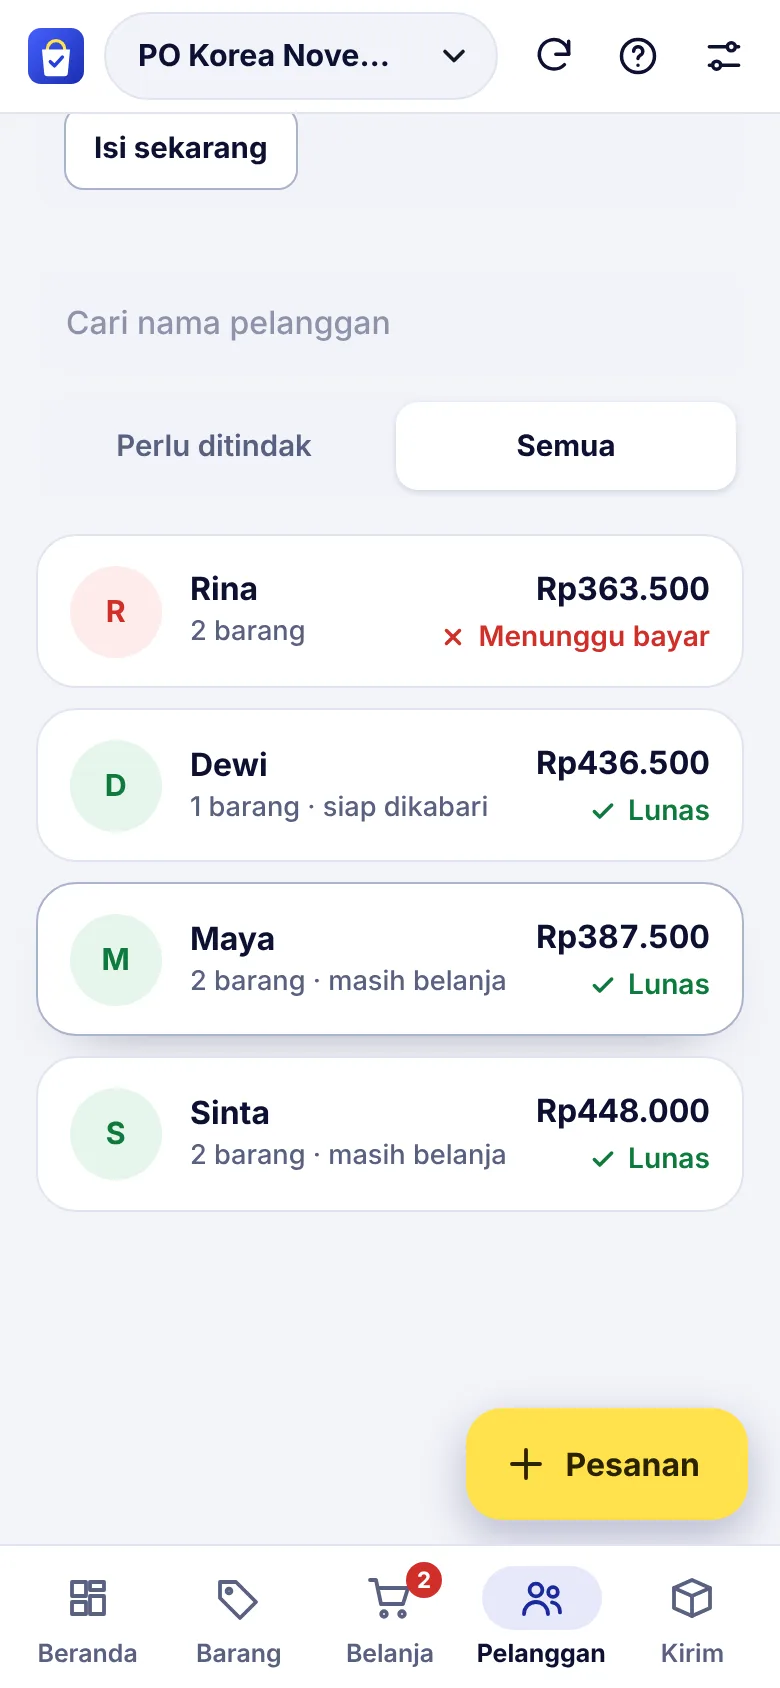
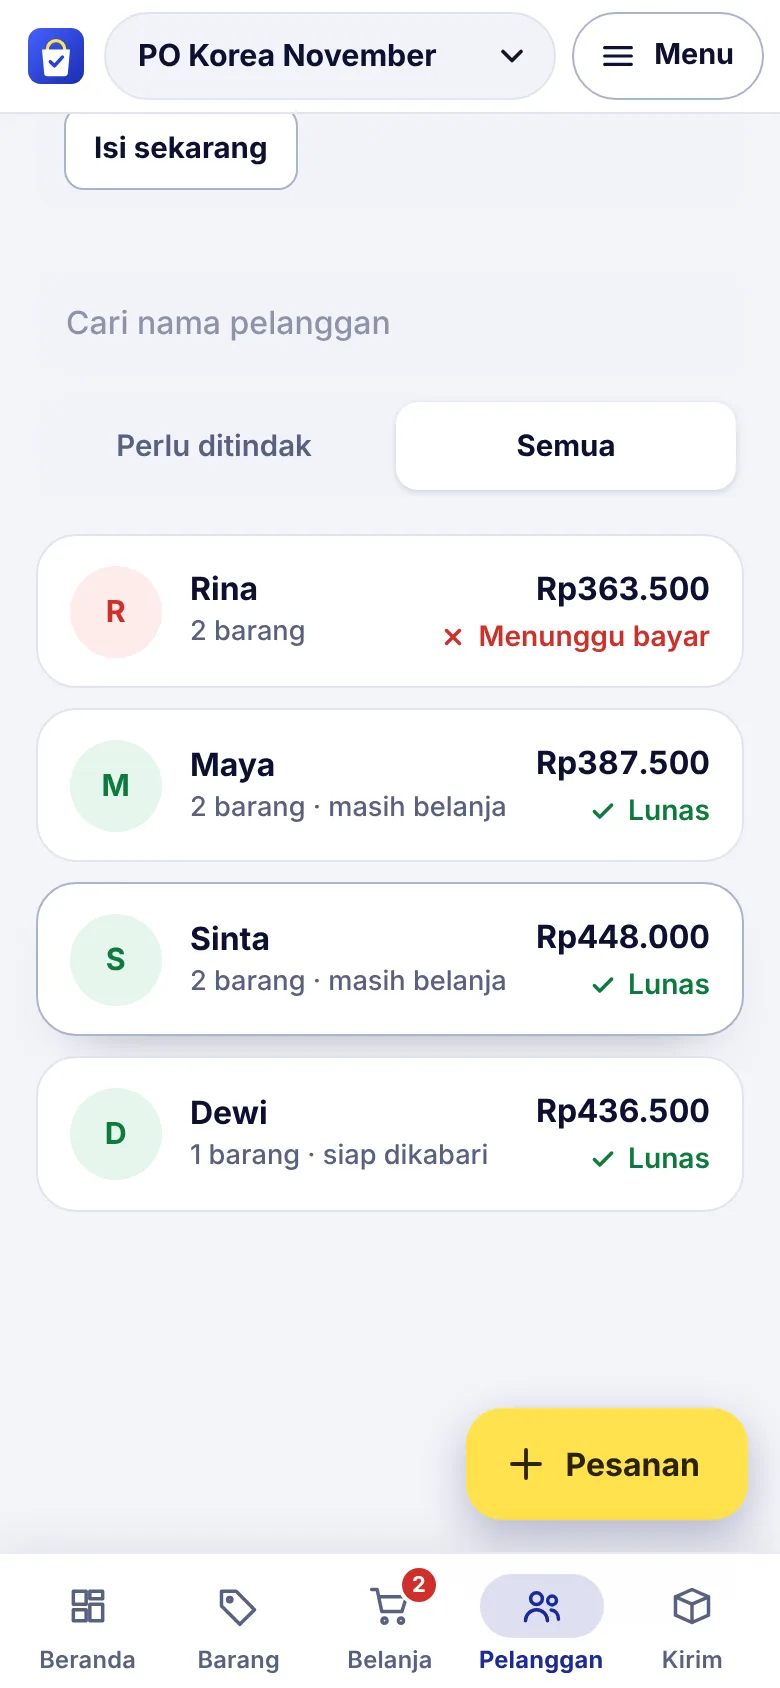
Header satu tombol Menu; batas PO opsional dan bisa diperpanjang; perkiraan barang sampai; Siap dikabari dibatasi 3
Claude-Session: https://claude.ai/code/session_01Umsz8aQAUh9Fd5wyBKCHqJ

diff --git a/app.html b/app.html
@@ -738,6 +738,28 @@ nav.tabs button:active svg{transform:scale(.92)}
 
 details.doneblk .srow,details.doneblk .area{margin-left:16px;margin-right:16px}
 details.doneblk .area{padding-left:0;padding-right:0}
+
+/* header: satu tombol Menu */
+header.top .menu-btn{display:inline-flex;align-items:center;gap:8px;min-height:44px;padding:0 14px 0 12px;border-radius:99px;border:1.5px solid var(--rule-strong);background:var(--surface);color:var(--ink);font-weight:700;font-size:.9rem;cursor:pointer;margin-left:auto;flex:0 0 auto}
+header.top .menu-btn svg{width:20px;height:20px}
+header.top .menu-btn:active{background:var(--sunken)}
+.mrow{display:flex;align-items:center;gap:14px;width:100%;text-align:left;background:transparent;border:0;border-bottom:1px solid var(--rule);padding:14px 4px;min-height:64px;color:var(--ink);cursor:pointer}
+.mrow:last-of-type{border-bottom:0}
+.mrow .mi{width:42px;height:42px;border-radius:14px;background:var(--sunken);display:grid;place-items:center;flex:0 0 auto}
+.mrow .mi svg{width:22px;height:22px}
+.mrow .mt{display:flex;flex-direction:column;gap:2px}
+.mrow .mt b{font-size:1rem}.mrow .mt small{color:var(--muted);font-size:.84rem}
+.mrow.danger .mi{background:color-mix(in srgb,var(--red) 12%,transparent);color:var(--red)}
+.mrow.danger .mt b{color:var(--red)}
+.sched{margin-top:16px;padding-top:14px;border-top:1px solid var(--rule)}
+.sched .label{font-weight:700;margin-bottom:8px}
+.sched .chips{display:flex;flex-wrap:wrap;gap:8px;margin-top:10px}
+.sched .chip{min-height:40px;padding:0 14px;border-radius:99px;border:1.5px solid var(--rule-strong);background:var(--surface);color:var(--ink);font-weight:600;font-size:.86rem;cursor:pointer}
+.rbtns{display:flex;flex-direction:column;gap:6px;flex:0 0 auto}
+.rbtns .btn{min-height:38px}
+.cn2{font-size:.8rem;font-weight:700;background:var(--sunken);color:var(--muted);border-radius:99px;padding:2px 9px;margin-left:6px;vertical-align:middle}
+.morerow{color:var(--accent);font-weight:700;min-height:48px}
+@media(max-width:899px){header.top .brand .bn{display:none}}
 </style>
 </head>
 <body>
@@ -962,6 +984,7 @@ function waBill(c,t){
   if(c.paid>0)s+='\nSudah dibayar: '+rp(c.paid)+'\nSisa: '+rp(Math.max(0,c.sisa));
   if(c.sisa>0){s+='\n';if(APP.shop&&APP.shop.pay)s+='\nSilakan transfer ke:\n'+APP.shop.pay;s+='\n\nSetelah transfer, kirim bukti bayarnya di chat ini ya. Barang kami belikan setelah pembayaran kami terima.'}
   else s+='\nTagihan sudah lunas.';
+  if(t.eta)s+='\n\nPerkiraan barang sampai: '+new Date(t.eta+'T00:00:00').toLocaleDateString('id-ID',{day:'numeric',month:'long'});
   return s+'\nTerima kasih!';
 }
 /* pesanan baru dianggap "sudah dibayar" berurutan sesuai uang yang masuk; baru yang lunas muncul di daftar belanja */
@@ -1151,7 +1174,7 @@ function iso(t){return new Date(t).toISOString()}
 function rowsOf(){
   var sid=APP.shop.id,role=APP.role,R={};
   TBL.forEach(function(T){if(T.w.indexOf(role)>=0&&!(T.n==='deliveries'&&APP.noDeliv))R[T.n]={}});
-  if(R.trips)S.trips.forEach(function(t){R.trips[t.id]={id:t.id,shop_id:sid,name:t.nama,currency:t.mata||'KRW',deadline:t.deadline||null}});
+  if(R.trips)S.trips.forEach(function(t){R.trips[t.id]={id:t.id,shop_id:sid,name:t.nama,currency:t.mata||'KRW',deadline:t.deadline||null};if(!APP.noEta)R.trips[t.id].eta=t.eta||null});
   if(R.trip_pricing)S.trips.forEach(function(t){R.trip_pricing[t.id]={trip_id:t.id,shop_id:sid,rate:+t.kurs||0,fee_pct:+t.feePct||0,fee_flat:Math.round(+t.feeFlat||0),round_to:Math.max(1,Math.round(+t.round||1)),extra_cost:Math.round(+t.biayaLain||0)}});
   if(R.customers)S.customers.forEach(function(c){R.customers[c.id]={id:c.id,shop_id:sid,name:c.nama,phone:c.hp||''}});
   if(R.items)S.items.forEach(function(i){R.items[i.id]={id:i.id,shop_id:sid,trip_id:i.trip,code:i.kode,name:i.nama,store:i.toko||'',price:+i.harga||0,
@@ -1301,7 +1324,7 @@ async function loadAll(o){
   if(!only||only.indexOf('items')>=0)APP.noFix=false;
   var guess=prev.cur||want||null;
   var needTrips=need('trips');
-  var tripsP=needTrips?fetchAll('trips','id,name,currency,deadline,created_at','id',byShop):Promise.resolve(null);
+  var tripsP=needTrips?fetchTrips(byShop):Promise.resolve(null);
   var priceP=(needTrips&&own)?fetchAll('trip_pricing','*','trip_id',byShop):Promise.resolve([]);
   var custP=(!pembeli&&need('customers'))?fetchAll('customers','id,name,phone','id',byShop):Promise.resolve(null);
   var logP=(pembeli||only||(o.light&&APP.hashLoaded))?Promise.resolve(null):fetchAll('import_log','hash','hash',byShop);
@@ -1313,7 +1336,7 @@ async function loadAll(o){
   if(D[0]){
     var pr={};D[1].forEach(function(p){pr[p.trip_id]=p});
     D[0].sort(function(a,b){return a.created_at<b.created_at?1:-1});
-    ns.trips=D[0].map(function(t){var p=pr[t.id]||{};return {id:t.id,nama:t.name,mata:t.currency,deadline:t.deadline||'',
+    ns.trips=D[0].map(function(t){var p=pr[t.id]||{};return {id:t.id,nama:t.name,mata:t.currency,deadline:t.deadline||'',eta:t.eta||'',
       kurs:p.rate!=null?+p.rate:0,feePct:+p.fee_pct||0,feeFlat:+p.fee_flat||0,round:+p.round_to||1,biayaLain:+p.extra_cost||0}});
   }else ns.trips=prev.trips;
   var has=function(id){return ns.trips.some(function(t){return t.id===id})};
@@ -1345,6 +1368,11 @@ async function loadAll(o){
 
 /* ---------- cadangan: semua data toko jadi satu berkas Excel ---------- */
 function loadScript(src){return new Promise(function(ok,no){var el=document.createElement('script');el.src=src;el.onload=ok;el.onerror=function(){no(new Error('lib'))};document.head.appendChild(el)})}
+async function fetchTrips(byShop){
+  if(APP.noEta)return fetchAll('trips','id,name,currency,deadline,created_at','id',byShop);
+  try{return await fetchAll('trips','id,name,currency,deadline,eta,created_at','id',byShop)}
+  catch(e){APP.noEta=true;return fetchAll('trips','id,name,currency,deadline,created_at','id',byShop)}
+}
 async function tryCols(table,base,extra,ord,mod){
   if(!extra)return fetchAll(table,base,ord,mod);
   try{return await fetchAll(table,base+','+extra,ord,mod)}catch(e){return fetchAll(table,base,ord,mod)}
@@ -1695,6 +1723,7 @@ var ICO={
   kirim:'<path d="M3 7l9-4 9 4v10l-9 4-9-4z"/><path d="M3 7l9 4 9-4M12 11v10"/>',
   refresh:'<path d="M20 11a8 8 0 1 0-2.3 5.7"/><path d="M20 4v7h-7"/>',
   logout:'<path d="M10 4H5v16h5"/><path d="M16 8l4 4-4 4M20 12H9"/>',
+  menu:'<path d="M4 7h16M4 12h16M4 17h16"/>',
   gear:'<path d="M4 7h9M19 7h1M4 17h1M11 17h9"/><circle cx="16" cy="7" r="2.2"/><circle cx="8" cy="17" r="2.2"/>',
   help:'<circle cx="12" cy="12" r="9"/><path d="M9.6 9.4a2.5 2.5 0 1 1 3.5 2.3c-.7.4-1.1.9-1.1 1.7M12 17h.01"/>',
   plus:'<path d="M12 5v14M5 12h14"/>', minus:'<path d="M5 12h14"/>', x:'<path d="M6 6l12 12M18 6L6 18"/>',
@@ -1722,7 +1751,7 @@ function val(id){var el=document.getElementById(id);return el?el.value:''}
 function viewHeader(){
   var t=curTrip();
   var sel=S.trips.length?'<div class="tripsel"><select id="tripSel" data-chg="trip" aria-label="Trip aktif">'+S.trips.map(function(x){return '<option value="'+x.id+'"'+(t&&x.id===t.id?' selected':'')+'>'+esc(x.nama)+'</option>'}).join('')+(S.role==='owner'?'<option value="__new">+ Trip baru…</option>':'')+'</select></div>':'<div class="tripsel"><b>Jastip Manager</b></div>';
-  return '<header class="top"><div class="in"><span class="brand">'+logo(28)+'<span class="bn">Jastip Manager</span></span>'+sel+'<span id="syncdot" class="syncdot '+APP.sync+'" title="'+(APP.sync==='ok'?'Tersimpan':APP.sync==='saving'?'Menyimpan…':'Belum tersimpan')+'" role="img" aria-label="'+(APP.sync==='ok'?'Tersimpan':APP.sync==='saving'?'Menyimpan':'Belum tersimpan')+'"></span><button class="icon-btn" data-act="refresh" aria-label="Muat ulang data" title="Muat ulang data">'+ico('refresh')+'</button><button class="icon-btn" data-act="help" aria-label="Cara pakai">'+ico('help')+'</button><button class="icon-btn" data-act="settings" aria-label="Pengaturan">'+ico('gear')+'</button></div></header>';
+  return '<header class="top"><div class="in"><span class="brand">'+logo(28)+'<span class="bn">Jastip Manager</span></span>'+sel+'<span id="syncdot" class="syncdot '+APP.sync+'" title="'+(APP.sync==='ok'?'Tersimpan':APP.sync==='saving'?'Menyimpan…':'Belum tersimpan')+'" role="img" aria-label="'+(APP.sync==='ok'?'Tersimpan':APP.sync==='saving'?'Menyimpan':'Belum tersimpan')+'"></span><button class="menu-btn" data-act="menu" aria-haspopup="dialog">'+ico('menu')+'<span>Menu</span></button></div></header>';
 }
 function viewNav(C){
   var tabs=allowedTabs();
@@ -1765,11 +1794,14 @@ function viewHome(C){
   var siapList=C.custs.filter(function(c){return c.stage==='siap'}),waitL=C.custs.filter(function(c){return c.hold.length}),waitSum=waitL.reduce(function(a,c){return a+Math.max(0,c.sisa)},0);
   var sentence=!C.items.length?'Mulai dengan menempelkan daftar barang dari story.':!nLines?'Belum ada pesanan. Tempel chat WhatsApp untuk mengisinya.':nBelum>0?'Masih ada '+nBelum+' barang yang belum dibeli.':waitL.length?waitL.length+' pelanggan belum bayar. Pesanannya masuk daftar belanja setelah lunas.':(siapList.length&&!APP.noDeliv)?'Semua barang sudah dibeli. '+siapList.length+' pelanggan siap dikabari.':piut.length?'Semua barang sudah dibeli. '+piut.length+' pelanggan belum lunas.':'Semua beres. Tidak ada yang tertunda.';
   var doneN=C.items.filter(function(i){return C.per[i.id].ordered>0&&!pending(C,i)}).length,pct=T.codes?Math.round(doneN/T.codes*100):0;
-  var dl=t.deadline?'PO tutup '+new Date(t.deadline+'T00:00:00').toLocaleDateString('id-ID',{day:'numeric',month:'short'})+(days==null?'':days<0?', sudah lewat':days===0?', hari ini':', '+days+' hari lagi'):'';
-  var meta=(owner&&t.kurs>0?'Kurs 1 '+esc(t.mata)+' = Rp'+nf(t.kurs):'')+(owner&&t.kurs>0&&dl?' · ':'')+(dl?esc(dl):'');
+  var dl=t.deadline?'Titipan sampai '+new Date(t.deadline+'T00:00:00').toLocaleDateString('id-ID',{day:'numeric',month:'short'})+(days==null?'':days<0?', sudah lewat':days===0?', hari ini':', '+days+' hari lagi'):'';
+  var etaT=(t.eta&&!APP.noEta)?'Perkiraan tiba '+new Date(t.eta+'T00:00:00').toLocaleDateString('id-ID',{day:'numeric',month:'short'}):'';
+  var meta=[(owner&&t.kurs>0?'Kurs 1 '+esc(t.mata)+' = Rp'+nf(t.kurs):''),(dl?esc(dl):''),etaT].filter(Boolean).join(' · ');
   var rr=owner&&t.kurs>0?RATE[String(t.mata||'').toUpperCase()]:null;
   if(rr&&rr.rate>t.kurs*1.01)rows.push('<button class="row" data-act="trip-edit"><span class="lead-n warn">!</span><div class="grow"><div class="t">Kurs trip di bawah kurs pasar</div><div class="sub">Kurs trip Rp'+nf(t.kurs)+', kurs pasar hari ini Rp'+nf(rr.rate)+'. Harga jual bisa terlalu murah. Ketuk untuk memperbarui.</div></div><span class="chev">'+ico('chev')+'</span></button>');
-  if(days!=null&&days<=3)rows.push(todoRow(days<0?'!':days,days<0?'bad':'warn',days<0?'Batas PO sudah lewat':(days===0?'PO tutup hari ini':'Hari lagi PO ditutup'),'Tutup PO: '+esc(t.deadline),null));
+  if(owner&&days!=null&&days<=3)rows.push('<div class="row"><span class="lead-n warn">'+(days<0?'!':days)+'</span><div class="grow"><div class="t">'+(days<0?'Batas terima titipan sudah lewat':days===0?'Batas terima titipan hari ini':'Hari lagi batas terima titipan')+'</div><div class="sub">'+(days<0?'Pesanan baru tetap bisa dicatat. Perpanjang kalau masih menerima titipan.':'Pesanan baru tetap bisa dicatat setelah batas.')+'</div></div><div class="rbtns"><button class="btn sm" data-act="dl-ext" data-d="7">+7 hari</button><button class="btn sm ghost" data-act="dl-clear">Tanpa batas</button></div></div>');
+  var etaD=(owner&&t.eta&&!APP.noEta)?Math.ceil((new Date(t.eta+'T23:59:59')-Date.now())/864e5):null,notSent=C.custs.filter(function(c){return c.stage!=='none'&&c.stage!=='sent'&&c.tagihan>0&&!c.hold.length}).length;
+  if(etaD!=null&&etaD<0&&notSent&&!APP.noDeliv)rows.push('<div class="row"><span class="lead-n warn">!</span><div class="grow"><div class="t">Perkiraan barang sampai sudah lewat</div><div class="sub">'+notSent+' pelanggan belum ditandai terkirim. Kalau barang belum tiba, undur perkiraannya.</div></div><div class="rbtns"><button class="btn sm" data-act="eta-ext" data-d="7">+7 hari</button></div></div>');
   var tops=C.items.filter(function(i){return topUp(C,i)});
   if(waitL.length&&allowedTabs().indexOf('tagihan')>=0)rows.push('<button class="pr-card" data-act="stage" data-f="bayar"><span class="pi bad">'+waitL.length+'</span><span class="px"><b>Menunggu pembayaran</b><small>'+waitL.slice(0,3).map(function(c){return esc(c.c.nama)}).join(', ')+(waitL.length>3?' dan '+(waitL.length-3)+' lainnya':'')+'. Sisa '+rp(waitSum)+'</small></span><span class="pill bad">Tagih</span></button>');
   if(nBelum)rows.push(todoRow(nBelum,'bad','Barang belum dibeli',Object.keys(byToko).map(function(k){return esc(k)+' ('+byToko[k]+')'}).join(', ')+(tops.length?'. Beli lagi: '+tops.map(function(i){return esc(i.kode)+' +'+C.per[i.id].wait}).join(', '):''),'belanja'));
@@ -1788,10 +1820,10 @@ function viewHome(C){
   else if(!nLines)rows=['<div class="onb"><p><b>Belum ada pesanan.</b> Salin chat WhatsApp, lalu tempel di sini. Nomor barang dan jumlahnya terbaca otomatis.</p><button class="btn primary" data-act="import-open">Tempel chat WhatsApp</button></div>'].concat(rows);
   var siapHtml='',pipeHtml='';
   if(!APP.noDeliv&&S.role!=='pembeli'&&C.custs.some(function(c){return c.stage!=='none'})){
-    if(siapList.length)siapHtml='<div class="sec"><h2 class="sh">Siap dikabari</h2><div class="list">'+siapList.map(function(c){
+    if(siapList.length)siapHtml='<div class="sec"><h2 class="sh">Siap dikabari <span class="cn2">'+siapList.length+'</span></h2><div class="list">'+siapList.slice(0,3).map(function(c){
       var wa=phone(c.c.hp);
       return '<div class="row"><div class="grow"><div class="t">'+esc(c.c.nama)+'</div><div class="sub">'+c.rows.map(function(r){return esc(r.item.kode)}).join(', ')+' sudah dibeli semua</div></div>'+
-        (wa?'<a class="btn sm primary" target="_blank" rel="noopener" data-told="'+c.c.id+'" href="https://wa.me/'+wa+'?text='+encodeURIComponent(waReady(c,t))+'">'+ico('wa')+'Kabari</a>':'<button class="btn sm" data-act="cust-open" data-id="'+c.c.id+'">Isi nomor WA</button>')+'</div>'}).join('')+'</div></div>';
+        (wa?'<a class="btn sm primary" target="_blank" rel="noopener" data-told="'+c.c.id+'" href="https://wa.me/'+wa+'?text='+encodeURIComponent(waReady(c,t))+'">'+ico('wa')+'Kabari</a>':'<button class="btn sm" data-act="cust-open" data-id="'+c.c.id+'">Isi nomor WA</button>')+'</div>'}).join('')+(siapList.length>3?'<button class="row morerow" data-act="tab" data-tab="kirim"><span class="grow">Lihat semua '+siapList.length+' pelanggan</span><span class="chev">'+ico('chev')+'</span></button>':'')+'</div></div>';
     var cnt={},tot=0;C.custs.forEach(function(c){if(c.stage!=='none'){cnt[c.stage]=(cnt[c.stage]||0)+1;tot++}});
     var lunasN=C.custs.filter(function(c){return c.stage!=='none'&&c.tagihan>0&&c.sisa<=0}).length;
     var nB=cnt.bayar||0,nS=cnt.sent||0,nM=Math.max(0,tot-nB-nS);
@@ -2053,7 +2085,7 @@ function modalShop(C){
     '<div class="sheet-ft">'+(i.status!=='belum'?'<button class="btn" data-act="unbuy" data-id="'+i.id+'">Kembalikan ke belum dibeli</button>':'<button class="btn danger" data-act="soldout" data-id="'+i.id+'">Tandai habis</button>')+'<button class="btn primary" data-act="buy" data-id="'+i.id+'">'+(i.status==='dibeli'?'Simpan perubahan':'Sudah dibeli')+'</button></div>');
 }
 function modalTrip(edit){
-  var lt=curTrip()||{},t=edit?curTrip():{nama:'',mata:'KRW',kurs:'',feePct:lt.feePct!=null?lt.feePct:10,feeFlat:lt.feeFlat||0,round:lt.round||500,biayaLain:0,deadline:''};
+  var lt=curTrip()||{},t=edit?curTrip():{nama:'',mata:'KRW',kurs:'',feePct:lt.feePct!=null?lt.feePct:10,feeFlat:lt.feeFlat||0,round:lt.round||500,biayaLain:0,deadline:'',eta:''};
   var rounds=[[1,'Tidak dibulatkan'],[100,'Ke Rp100 terdekat ke atas'],[500,'Ke Rp500 terdekat ke atas'],[1000,'Ke Rp1.000 terdekat ke atas']];
   if(!rounds.some(function(r){return r[0]===+t.round}))rounds.push([+t.round,'Ke Rp'+t.round+' ke atas']);
   var known=COUNTRIES.some(function(c){return c[1]===t.mata});
@@ -2070,7 +2102,14 @@ function modalTrip(edit){
     '<div class="grid2"><label class="field"><span>Fee tambahan per barang (Rp)</span><input id="t-flat" name="feeFlat" type="text" data-money="i" inputmode="numeric" autocomplete="off" value="'+esc(fmtIn(t.feeFlat))+'" data-live="trip"></label>'+
     '<label class="field"><span>Pembulatan harga jual</span><select id="t-round" name="round" data-live="trip">'+rounds.map(function(r){return '<option value="'+r[0]+'"'+(+t.round===r[0]?' selected':'')+'>'+r[1]+'</option>'}).join('')+'</select></label></div>'+
     '<div class="grid2"><label class="field"><span>Biaya lain trip (Rp)</span><input id="t-biaya" name="biayaLain" type="text" data-money="i" inputmode="numeric" autocomplete="off" value="'+esc(fmtIn(t.biayaLain))+'"><small>Ongkir, pajak, dan sejenisnya. Mengurangi untung.</small></label>'+
-    '<label class="field"><span>Tutup PO</span><input id="t-deadline" name="deadline" type="date" value="'+esc(t.deadline)+'"></label></div></div></details></div>'+
+    '</div></div></details>'+
+    '<div class="sched"><div class="label">Jadwal (boleh dikosongkan)</div>'+
+    '<label class="field"><span>Batas terima titipan</span><input id="t-deadline" name="deadline" type="date" value="'+esc(t.deadline)+'"></label>'+
+    '<div class="chips"><button type="button" class="chip" data-act="dl-set" data-d="7">+7 hari</button><button type="button" class="chip" data-act="dl-set" data-d="14">+14 hari</button><button type="button" class="chip" data-act="dl-set" data-d="0">Tanpa batas</button></div>'+
+    '<p class="small muted" style="margin:8px 0 0">Hanya pengingat. Pesanan baru tetap bisa dicatat setelah tanggal ini.</p>'+
+    (APP.noEta?'':'<label class="field" style="margin-top:16px"><span>Perkiraan barang sampai</span><input id="t-eta" name="eta" type="date" value="'+esc(t.eta||'')+'"></label>'+
+    '<div class="chips"><button type="button" class="chip" data-act="dl-set" data-t="t-eta" data-d="14">+2 minggu</button><button type="button" class="chip" data-act="dl-set" data-t="t-eta" data-d="21">+3 minggu</button><button type="button" class="chip" data-act="dl-set" data-t="t-eta" data-d="0">Kosongkan</button></div>'+
+    '<p class="small muted" style="margin:8px 0 0">Ikut tertulis di pesan WhatsApp ke pelanggan. Pengiriman luar negeri bisa 2 sampai 3 minggu.</p>')+'</div></div>'+
     '<div class="sheet-ft">'+(edit&&S.trips.length>1?'<button type="button" class="btn danger ghost-del" data-act="arch-open">Arsipkan trip</button>':'')+'<button class="btn primary" type="submit">Simpan</button></div></form>');
 }
 function nextCode(C){
@@ -2213,6 +2252,16 @@ function modalLogout(){
   var busy=APP.dirty||APP.syncing;
   return sheet('Keluar dari akun?','<div class="sheet-bd"><p style="margin:0">'+(busy?'Masih ada perubahan yang sedang disimpan. Aplikasi akan menyelesaikannya dulu sebelum keluar.':'Semua data sudah tersimpan otomatis.')+' Untuk masuk lagi kamu perlu email dan kata sandi.</p><div class="small muted">'+esc(APP.user?APP.user.email:'')+'</div></div><div class="sheet-ft"><button class="btn" data-act="modal-close">Batal</button><button class="btn danger" data-oa="logout-yes">'+ico('logout')+'Ya, keluar</button></div>');
 }
+function modalMenu(){
+  var syn=APP.sync==='ok'?'Semua data tersimpan':APP.sync==='saving'?'Sedang menyimpan…':'Ada perubahan yang belum tersimpan';
+  function it(act,ic,t,sub,cls,attr){return '<button class="mrow'+(cls?' '+cls:'')+'" '+(attr||'data-act="'+act+'"')+'><span class="mi">'+ico(ic)+'</span><span class="mt"><b>'+t+'</b><small>'+sub+'</small></span></button>'}
+  return sheet('Menu','<div class="sheet-bd" style="padding-top:4px">'+
+    it('menu-refresh','refresh','Muat ulang data','Ambil data terbaru dari server')+
+    it('help','help','Cara pakai','Langkah singkat memakai aplikasi')+
+    it('settings','gear','Pengaturan','Rekening, tim, cadangan, riwayat')+
+    it('','logout','Keluar','Keluar dari akun ini','danger','data-oa="logout"')+
+    '<p class="small muted" style="margin:12px 4px 0">'+syn+'</p></div>');
+}
 function modalHelp(){
   var steps=[['barang','Catat barang','Tempel daftar barang dari story: kode, nama, harga. Satu baris satu barang.'],['tagihan','Catat pesanan','Tekan Pesanan baru: isi nama, nomor WhatsApp, dan barangnya. Atau tempel chat WhatsApp. Setelah disimpan, pilih Tanpa ongkir atau Pakai ongkir, lalu kirim tagihan lewat WhatsApp.'],['tagihan','Konfirmasi bayar','Kalau pelanggan sudah transfer, buka namanya lalu tekan Sudah dibayar. Pesanannya langsung tampil di daftar belanja.'],['belanja','Belanja','Petugas belanja mencentang barang yang sudah dibeli. Kalau habis, ketuk barisnya lalu tandai habis.'],['kirim','Kirim','Di tab Kirim, kabari pelanggan lewat WhatsApp, lalu isi nomor resi. Pesanan otomatis ditandai terkirim. Ongkir diisi di tagihan pelanggan.']];
   var ok=allowedTabs();steps=steps.filter(function(s){return ok.indexOf(s[0])>=0});
@@ -2294,7 +2343,7 @@ function render(){
   if(!C)body=viewEmpty();
   else body=UI.tab==='home'?viewHome(C):UI.tab==='barang'?viewBarang(C):UI.tab==='belanja'?viewBelanja(C):UI.tab==='kirim'?viewKirim(C):viewTagihan(C);
   var m=UI.modal,modal='';
-  if(m){var ty=m.type;modal=ty==='trip-new'?modalTrip(false):ty==='trip-edit'?modalTrip(true):ty==='settings'?modalSettings():ty==='help'?modalHelp():ty==='logout'?modalLogout():ty==='archive'?modalArchive():ty==='ship'?modalShip(C):ty==='riwayat'?modalRiwayat():!C?'':ty==='item-bulk'?modalBulk(C):ty==='item-new'?modalItem(C,false):ty==='item'?modalItem(C,true):ty==='line-new'?modalOrder(C):ty==='import'?modalImport(C):ty==='shop'?modalShop(C):ty==='logout'?modalLogout():ty==='cust'?modalCust(C):''}
+  if(m){var ty=m.type;modal=ty==='trip-new'?modalTrip(false):ty==='trip-edit'?modalTrip(true):ty==='settings'?modalSettings():ty==='help'?modalHelp():ty==='menu'?modalMenu():ty==='logout'?modalLogout():ty==='archive'?modalArchive():ty==='ship'?modalShip(C):ty==='riwayat'?modalRiwayat():!C?'':ty==='item-bulk'?modalBulk(C):ty==='item-new'?modalItem(C,false):ty==='item'?modalItem(C,true):ty==='line-new'?modalOrder(C):ty==='import'?modalImport(C):ty==='shop'?modalShop(C):ty==='logout'?modalLogout():ty==='cust'?modalCust(C):''}
   var y=window.scrollY,sy=0,sh=document.querySelector('.sheet-bd');if(sh)sy=sh.scrollTop;
   var mk=m?JSON.stringify(m):'',same=!!(m&&window.__mk===mk&&document.querySelector('.overlay')),keep=null,fk=null;
   window.__mk=mk;
@@ -2360,6 +2409,11 @@ document.addEventListener('click',function(e){
     case 'trip-new':UI.modal={type:'trip-new'};UI.focus='t-nama';render();break;
     case 'trip-edit':UI.modal={type:'trip-edit'};render();break;
     case 'refresh':doRefresh();break;
+    case 'menu':UI.modal={type:'menu'};render();break;
+    case 'menu-refresh':UI.modal=null;render();doRefresh();break;
+    case 'dl-set':{var inp=document.getElementById(el.getAttribute('data-t')||'t-deadline'),d=+el.getAttribute('data-d');if(inp){if(!d)inp.value='';else{var b0=new Date();b0.setHours(0,0,0,0);if(inp.value){var c0=new Date(inp.value+'T00:00:00');if(c0>b0)b0=c0}b0.setDate(b0.getDate()+d);inp.value=b0.getFullYear()+'-'+('0'+(b0.getMonth()+1)).slice(-2)+'-'+('0'+b0.getDate()).slice(-2)}}break}
+    case 'dl-ext':case 'eta-ext':{var tr=curTrip();if(!tr)break;var key=a==='dl-ext'?'deadline':'eta',b1=new Date();b1.setHours(0,0,0,0);if(tr[key]){var c1=new Date(tr[key]+'T00:00:00');if(c1>b1)b1=c1}b1.setDate(b1.getDate()+(+el.getAttribute('data-d')||7));tr[key]=b1.getFullYear()+'-'+('0'+(b1.getMonth()+1)).slice(-2)+'-'+('0'+b1.getDate()).slice(-2);save();render();toast((key==='deadline'?'Batas PO':'Perkiraan tiba')+' diundur ke '+b1.toLocaleDateString('id-ID',{day:'numeric',month:'long'}));break}
+    case 'dl-clear':{var tr2=curTrip();if(tr2){tr2.deadline='';save();render();toast('Batas PO dihapus. Pesanan tetap diterima.')}break}
     case 'settings':UI.modal={type:'settings'};render();if(S.role==='owner')loadMembers();break;
     case 'help':UI.modal={type:'help'};render();break;
     case 'bk-snooze':bkSet('snooze',Date.now()+7*864e5);render();toast('Diingatkan lagi 7 hari lagi');break;
@@ -2563,7 +2617,7 @@ document.addEventListener('submit',function(e){
     save();UI.modal=null;render();toast(pr.ok.length+' barang disimpan'+(pr.bad.length?', '+pr.bad.length+' baris dilewati':''));
   }else if(kind==='trip-new'||kind==='trip-edit'){
     if(S.role!=='owner')return;
-    var o={nama:fd.nama.trim(),mata:fd.mata.trim().toUpperCase(),kurs:numIn(fd.kurs)||0,feePct:numIn(fd.feePct)||0,feeFlat:numIn(fd.feeFlat)||0,round:parseFloat(fd.round)||1,biayaLain:numIn(fd.biayaLain)||0,deadline:fd.deadline||''};
+    var o={nama:fd.nama.trim(),mata:fd.mata.trim().toUpperCase(),kurs:numIn(fd.kurs)||0,feePct:numIn(fd.feePct)||0,feeFlat:numIn(fd.feeFlat)||0,round:parseFloat(fd.round)||1,biayaLain:numIn(fd.biayaLain)||0,deadline:fd.deadline||'',eta:fd.eta||''};
     if(!o.nama){toast('Isi nama trip');return}
     if(!/^[A-Z]{3}$/.test(o.mata)){toast('Pilih negara atau isi kode mata uang 3 huruf');return}
     if(!(o.kurs>0)){toast('Isi kurs dengan angka lebih dari 0');return}
